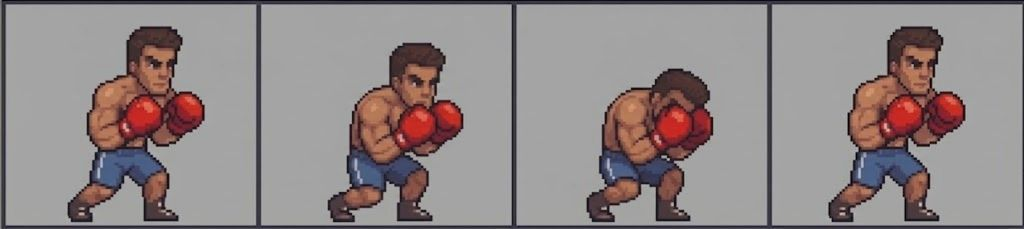
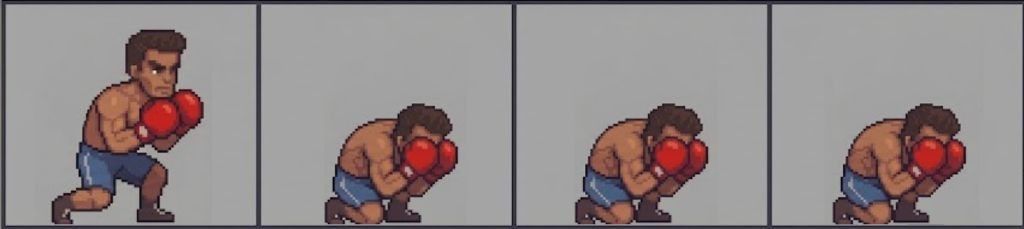
Clean up stray files, update README with miss-punch coin cost

diff --git a/README.md b/README.md
@@ -65,7 +65,7 @@ You have **100 HP**. A health bar is displayed in the top-left corner of the gam
 
 Gold coins appear at random heights and intervals. Collect them to fuel your punches.
 
-- Each coin allows **one punch** (1 coin = 1 punch).
+- Each coin allows **one punch** (1 coin = 1 punch), consumed even if the punch misses.
 - Punches are blocked when you have 0 coins, shown as `✕ No Coin!` on the HUD.
 - Coins are placed with a safe gap from obstacles so they're always reachable.
 - Coin count is displayed on the canvas HUD and score bar.